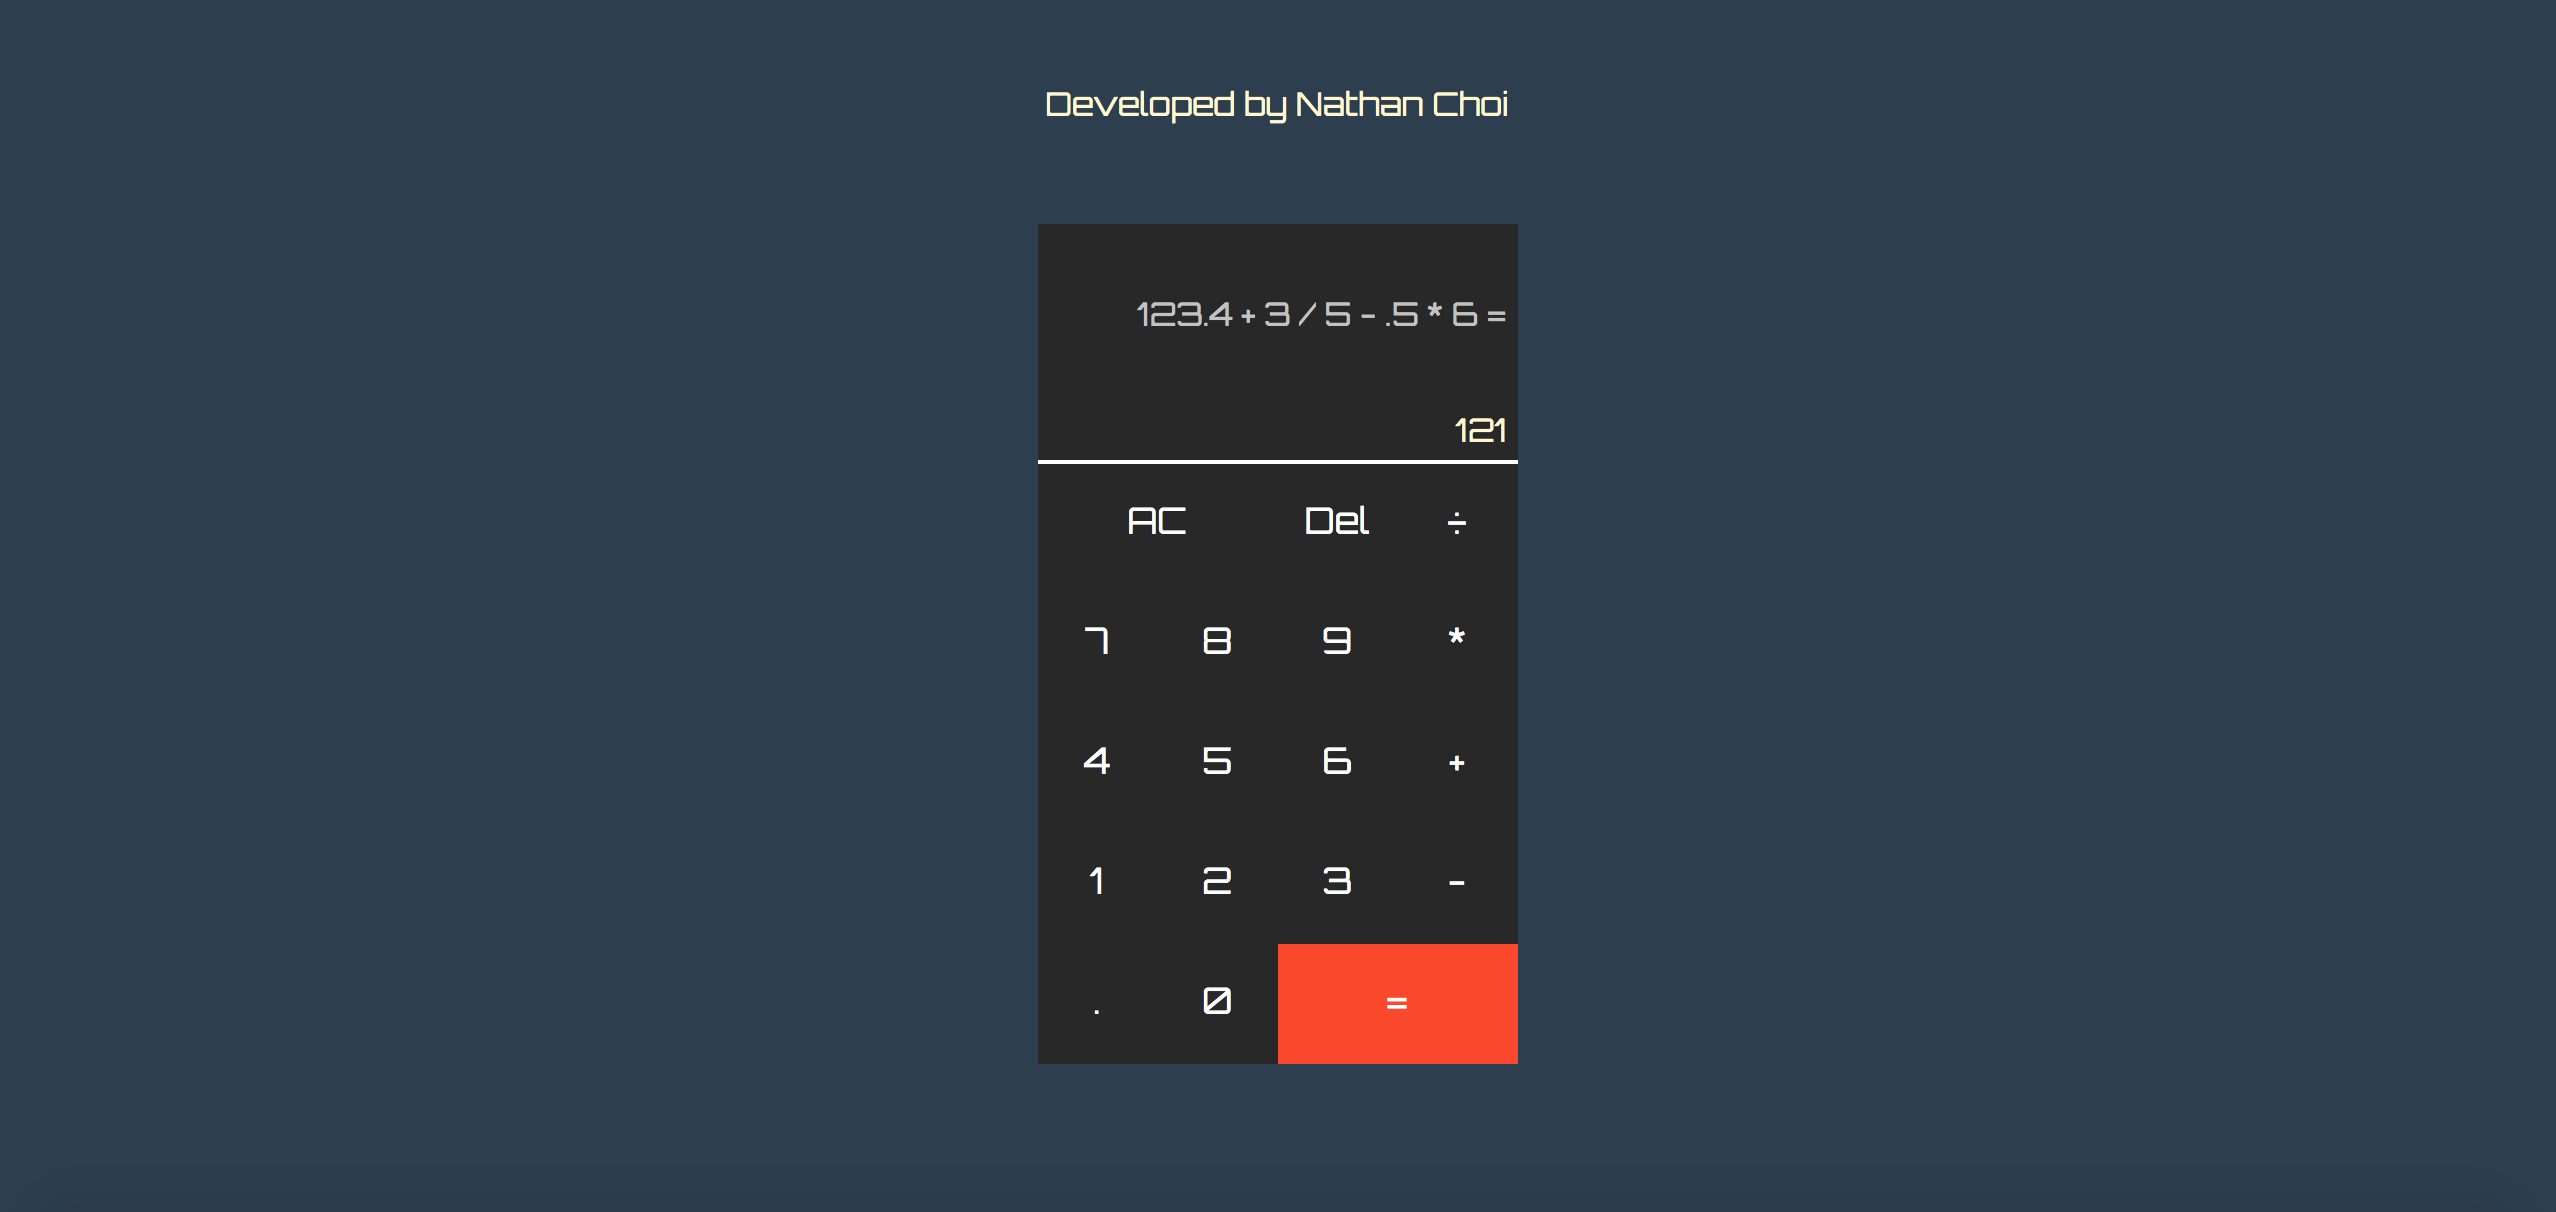
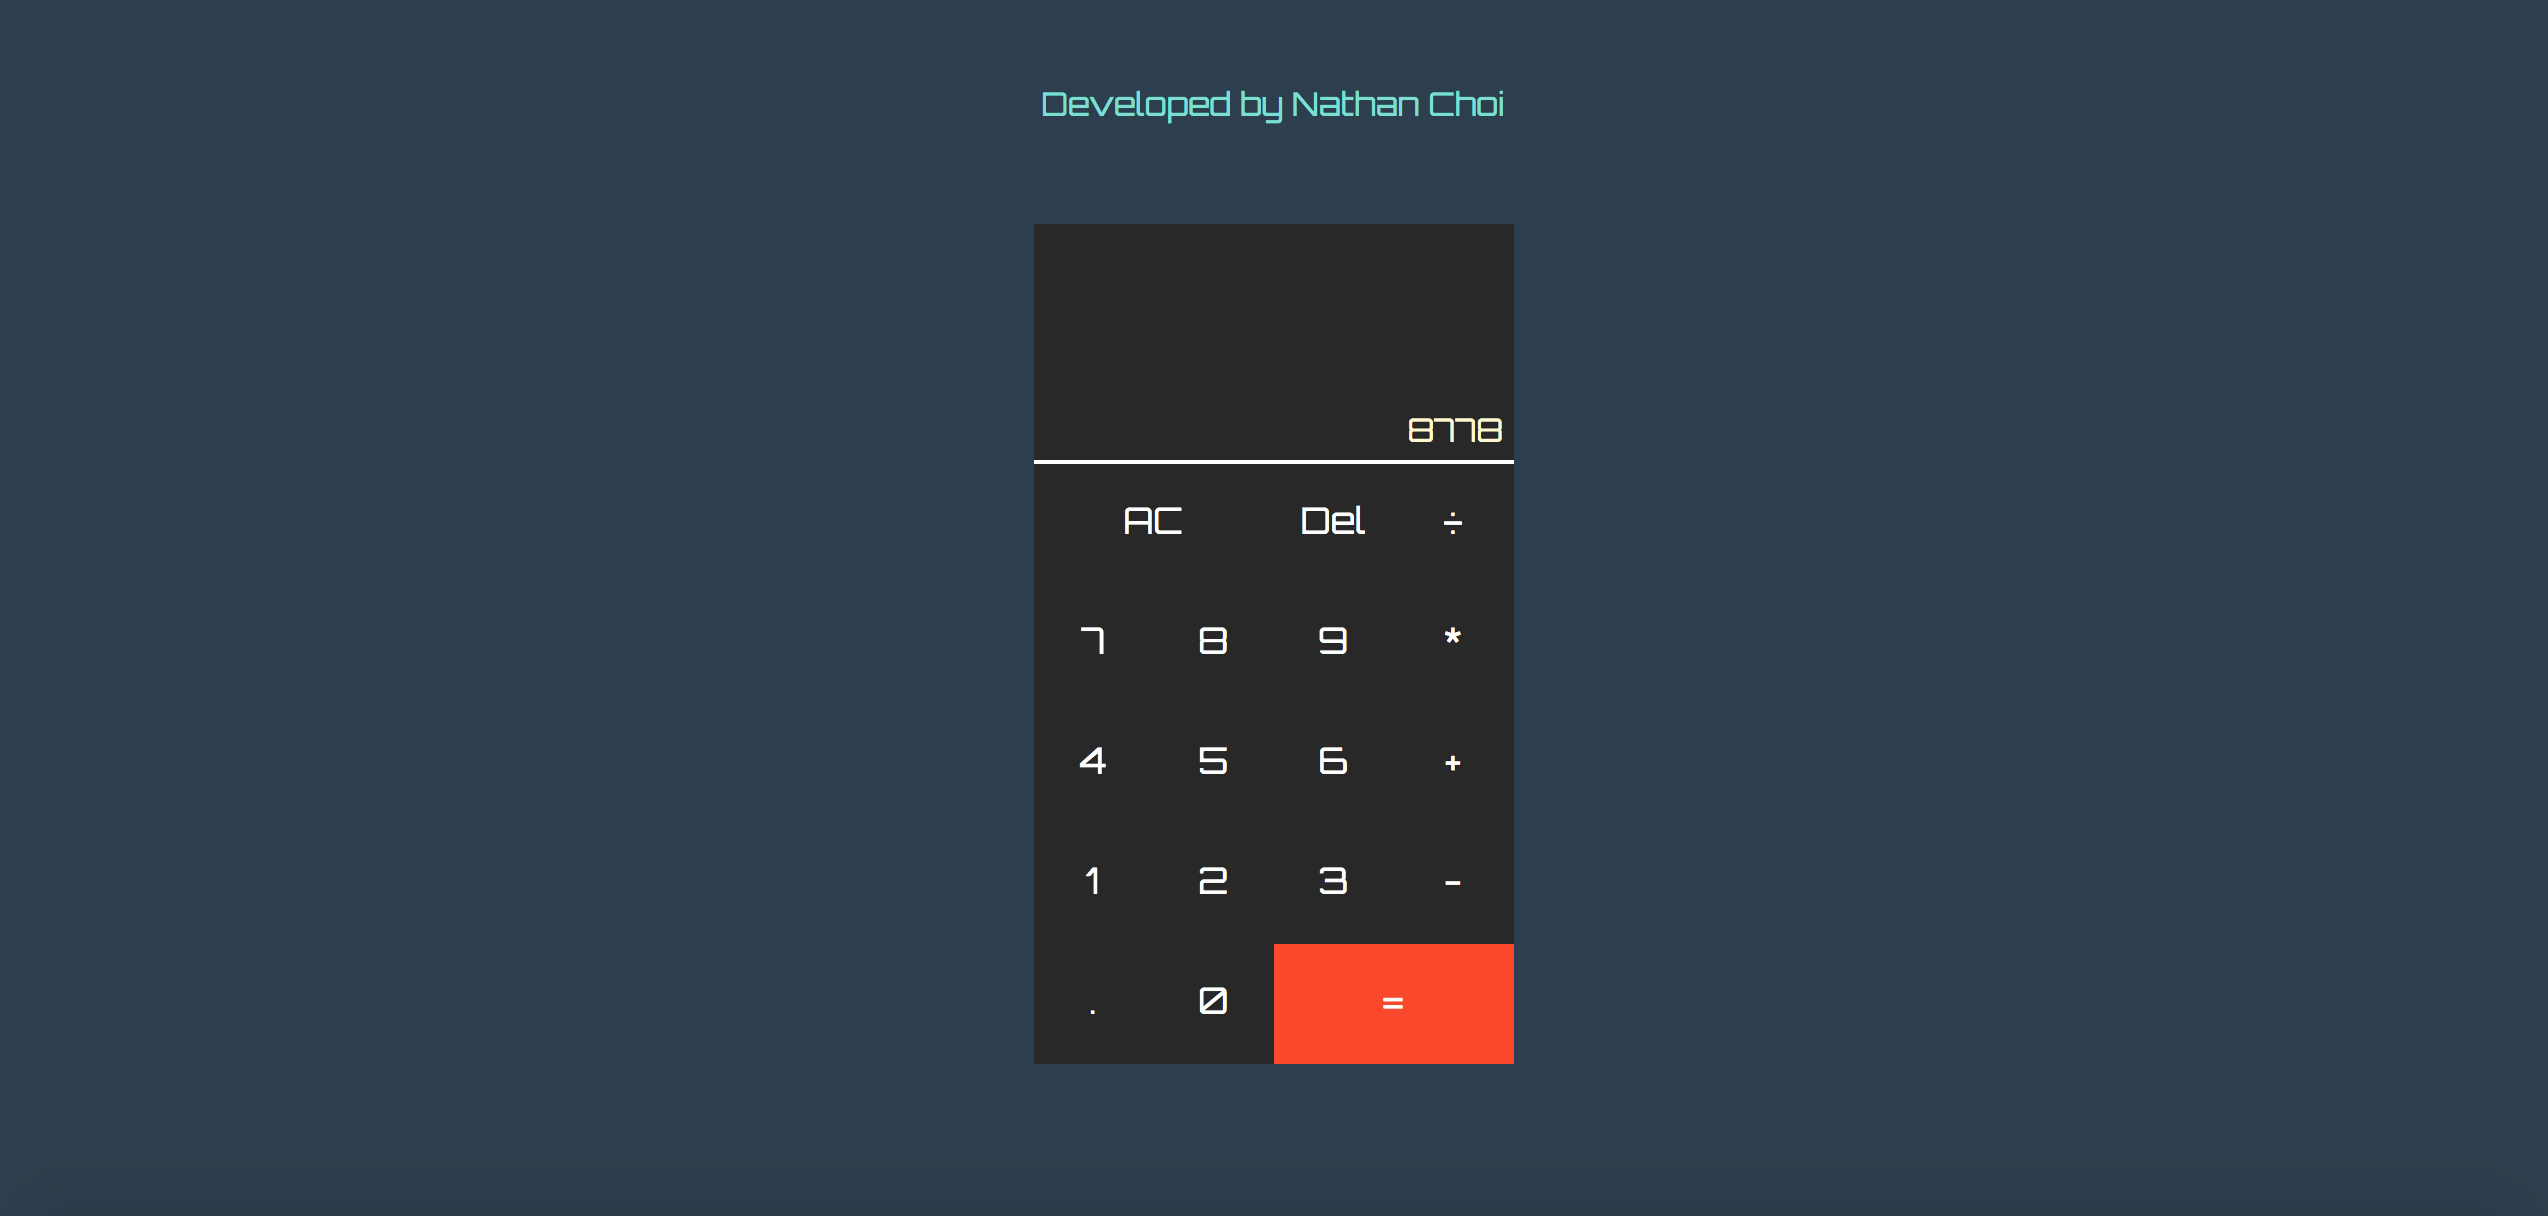
style & screenshot

diff --git a/assets/css/style.css b/assets/css/style.css
@@ -17,7 +17,8 @@ html, body {
     text-align: center;
     width: 500px;
     margin: 50px auto;
-    color: #FFF8CD;
+    /*color: #FFF8CD;*/
+    color: #77DFD1;
 }
 
 .whole {
